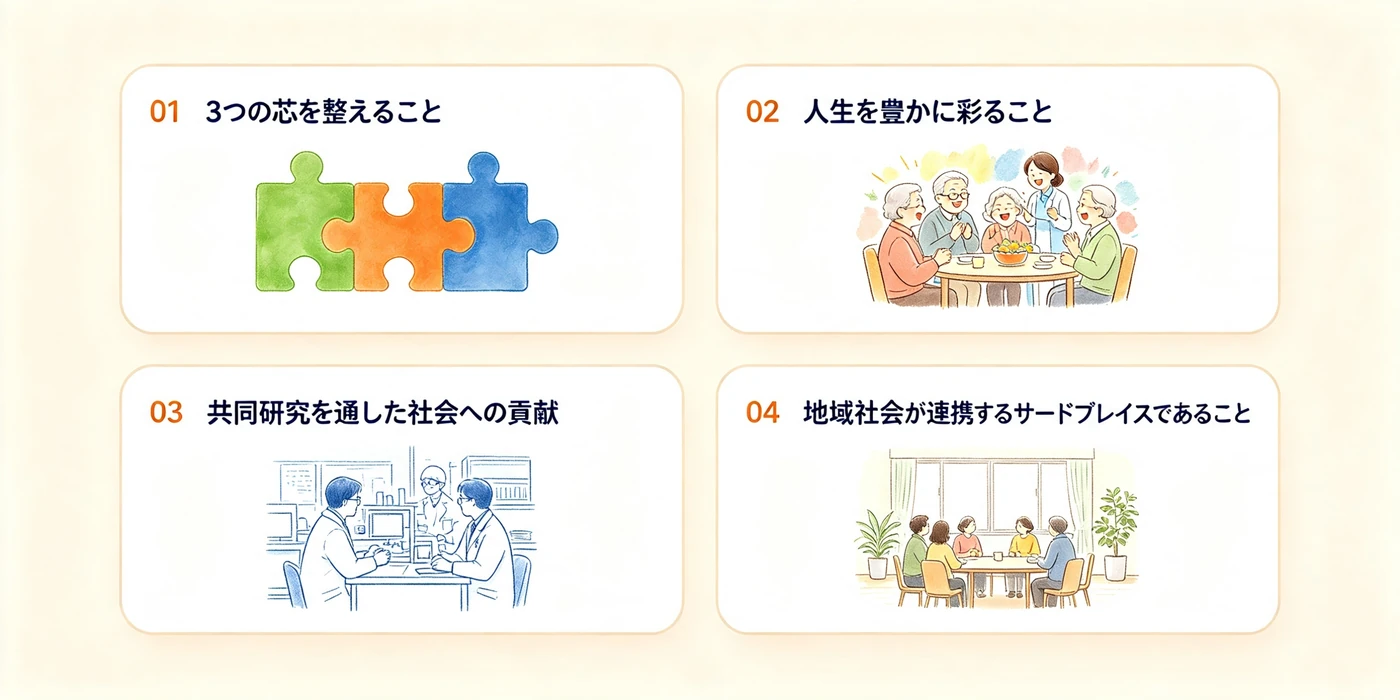
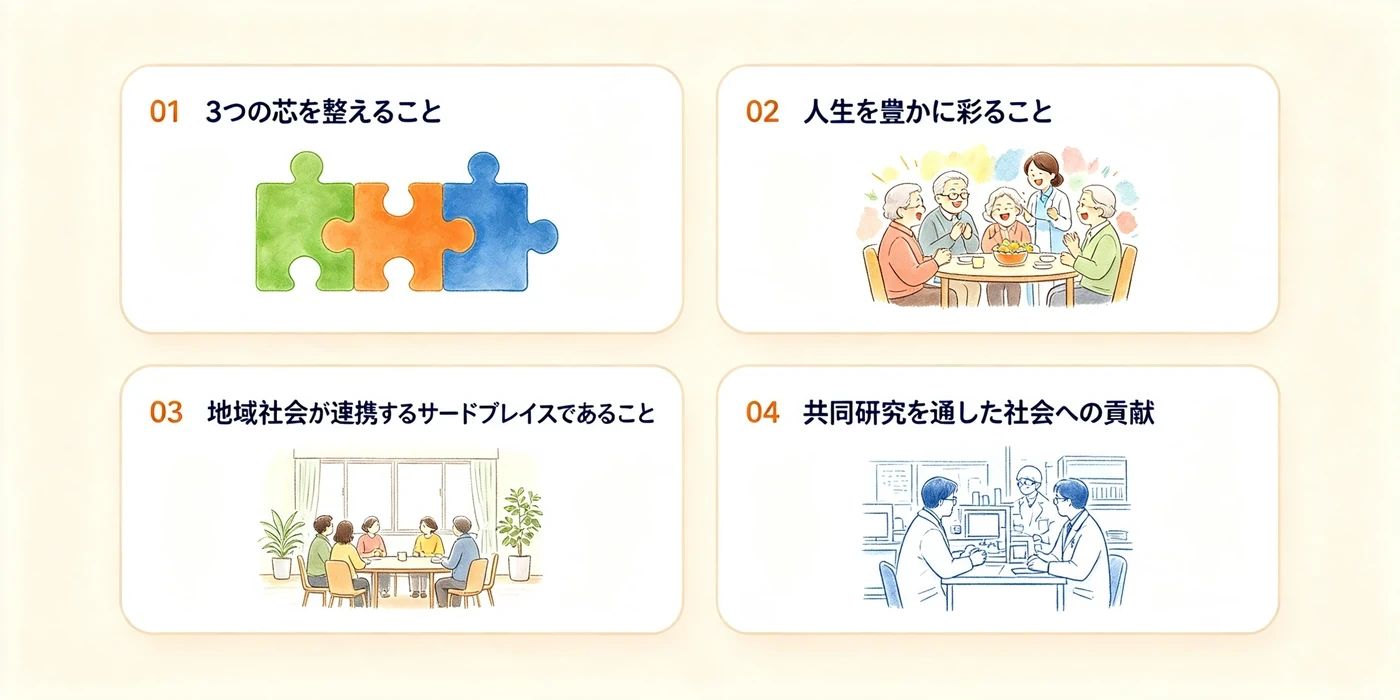
about：トレーニングの章03と04を入れ替え（03=サードプレイス／04=共同研究）。理念4本柱の画像も同じ順に入れ替え

Changed region(s): [[0.5529, 0.57, 0.8907, 0.87], [0.1229, 0.57, 0.4607, 0.87]]

diff --git a/about.html b/about.html
@@ -1268,7 +1268,7 @@ table{ max-width:100%; }
       <div class="tr-pillars">
         <p class="tr-pillars-lead">アスパスが提供するトレーニングの根底には、決してブレることのない確固たる理念があります。</p>
         <figure class="tr-pillars-fig">
-          <img src="images/pillars-4.webp" alt="アスパスが大切にする4つの理念：3つの芯を整えること／人生を豊かに彩ること／共同研究を通した社会への貢献／地域社会が連携するサードプレイスであること" width="1400" height="700" loading="lazy">
+          <img src="images/pillars-4.webp" alt="アスパスが大切にする4つの理念：3つの芯を整えること／人生を豊かに彩ること／地域社会が連携するサードプレイスであること／共同研究を通した社会への貢献" width="1400" height="700" loading="lazy">
         </figure>
         <p class="tr-pillars-sub">私たちが大切にしているこれらの想いと、具体的なトレーニングのあり方について、<br class="br-pc">丁寧にお伝えさせてください。</p>
       </div>
@@ -1329,19 +1329,6 @@ table{ max-width:100%; }
 
       <div class="tr-chapter">
         <p class="tr-num">03</p>
-        <h3 class="tr-h">世界的なエビデンスの活用と、大学・有識者との共同研究による社会貢献</h3>
-        <figure class="tr-chapfig reveal">
-          <img src="images/ch03-evidence.webp" alt="歩行データの分析と、大学の研究者・専門家との共同研究により知見を世界へ広げるイメージ" width="1400" height="787" loading="lazy">
-        </figure>
-        <p class="tr-p">パーキンソン病の治療やリハビリテーションの世界は、今この瞬間も絶え間なく進歩しています。だからこそ、アスパスでは現場の経験則だけに頼るのではなく、海外の最新論文など、日々アップデートされる世界的な医学エビデンス（科学的根拠）を常にキャッチアップし、目の前のお客様にとっての「最善の選択」を提供し続けます。</p>
-        <p class="tr-p">さらに私たちは、得られた知見を自分たちのスタジオの中だけで終わらせることはありません。</p>
-        <p class="tr-p">現在アスパスでは、大学の研究機関やパーキンソン病治療の有識者の方々と連携し、共同研究を進めています。</p>
-        <p class="tr-p">現場のトレーニングを通じて得られた、パーキンソン病の方特有の身体の変化、適切な運動負荷のあり方、そしてサポートによる心理的な効果など、貴重なデータをしっかりと「見える化」し、専門的な視点から詳細な分析を行っています。</p>
-        <p class="tr-p">こうした学術的な研究活動を通じて、パーキンソン病に対するリハビリテーションの新たな知見を見出し、その成果を広く発信していくこと。それがひいては、パーキンソン病分野全体の発展に繋がり、同じ病気で苦しむ日本中・世界中の方々への社会貢献になると私たちは確信しています。</p>
-      </div>
-
-      <div class="tr-chapter">
-        <p class="tr-num">04</p>
         <h3 class="tr-h">医療・地域と連携し、心から安心できる「第3の居場所（サードプレイス）」へ</h3>
         <figure class="tr-chapfig reveal">
           <img src="images/ch04-thirdplace.webp" alt="中央のスタジオを病院・かかりつけ医・介護事業所・自宅がやわらかくつながり地域で支えるイメージ" width="1400" height="787" loading="lazy">
@@ -1352,6 +1339,19 @@ table{ max-width:100%; }
         <p class="tr-p">地域の主治医の先生方、医療機関、介護事業所、ケアマネージャーの方々。それぞれの専門機関が持つ強みを活かし合い、密に連携を取り合うネットワークの中で、アスパスは「パーキンソン病に特化した運動専門施設」としての役割をしっかりと果たしていきます。</p>
         <p class="tr-p">スタジオの扉を開けた瞬間から感じていただける、明るさ、優しさ、そして何でも受け止める包容力。ここでは、上手に動けない自分を気にする必要はありません。つらい時は「つらい」とありのままの感情を出していただいて構いません。</p>
         <p class="tr-p">私たちは、ただストイックに運動を行うだけでなく、ここへ来て、スタッフや同じ想いを持つ仲間と会話をし、思い切り笑うことで「心まで元気になって帰っていただける」空間づくりを大切にしています。地域の皆様にとっての、温かい拠り所となることを目指して。</p>
+      </div>
+
+      <div class="tr-chapter">
+        <p class="tr-num">04</p>
+        <h3 class="tr-h">世界的なエビデンスの活用と、大学・有識者との共同研究による社会貢献</h3>
+        <figure class="tr-chapfig reveal">
+          <img src="images/ch03-evidence.webp" alt="歩行データの分析と、大学の研究者・専門家との共同研究により知見を世界へ広げるイメージ" width="1400" height="787" loading="lazy">
+        </figure>
+        <p class="tr-p">パーキンソン病の治療やリハビリテーションの世界は、今この瞬間も絶え間なく進歩しています。だからこそ、アスパスでは現場の経験則だけに頼るのではなく、海外の最新論文など、日々アップデートされる世界的な医学エビデンス（科学的根拠）を常にキャッチアップし、目の前のお客様にとっての「最善の選択」を提供し続けます。</p>
+        <p class="tr-p">さらに私たちは、得られた知見を自分たちのスタジオの中だけで終わらせることはありません。</p>
+        <p class="tr-p">現在アスパスでは、大学の研究機関やパーキンソン病治療の有識者の方々と連携し、共同研究を進めています。</p>
+        <p class="tr-p">現場のトレーニングを通じて得られた、パーキンソン病の方特有の身体の変化、適切な運動負荷のあり方、そしてサポートによる心理的な効果など、貴重なデータをしっかりと「見える化」し、専門的な視点から詳細な分析を行っています。</p>
+        <p class="tr-p">こうした学術的な研究活動を通じて、パーキンソン病に対するリハビリテーションの新たな知見を見出し、その成果を広く発信していくこと。それがひいては、パーキンソン病分野全体の発展に繋がり、同じ病気で苦しむ日本中・世界中の方々への社会貢献になると私たちは確信しています。</p>
       </div>
 
       <figure class="tr-closefig reveal">
